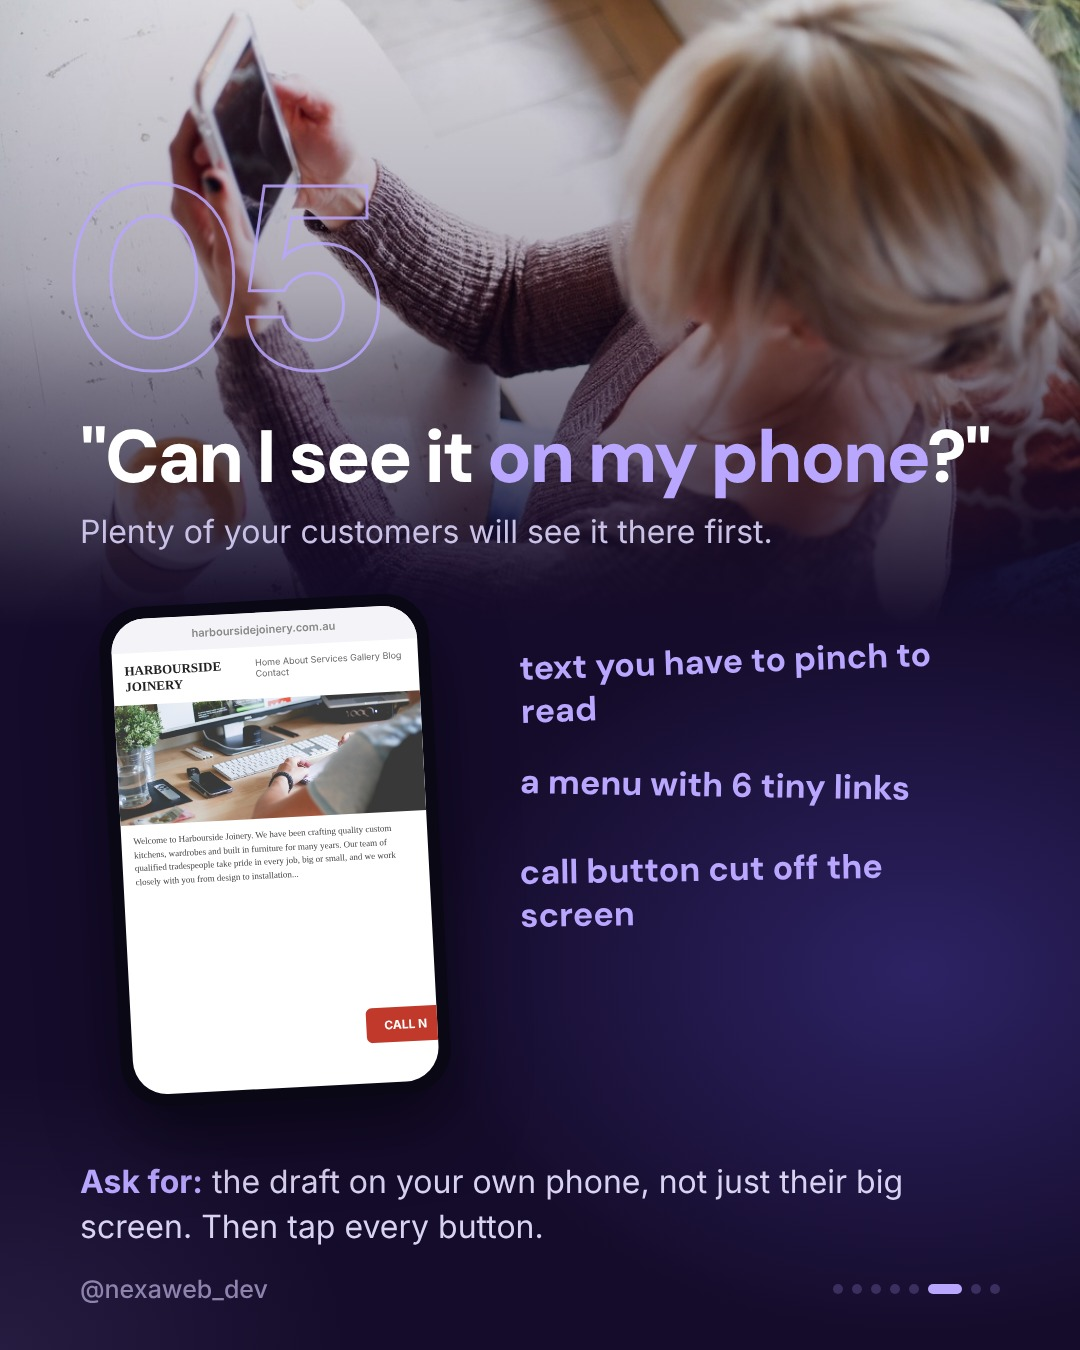
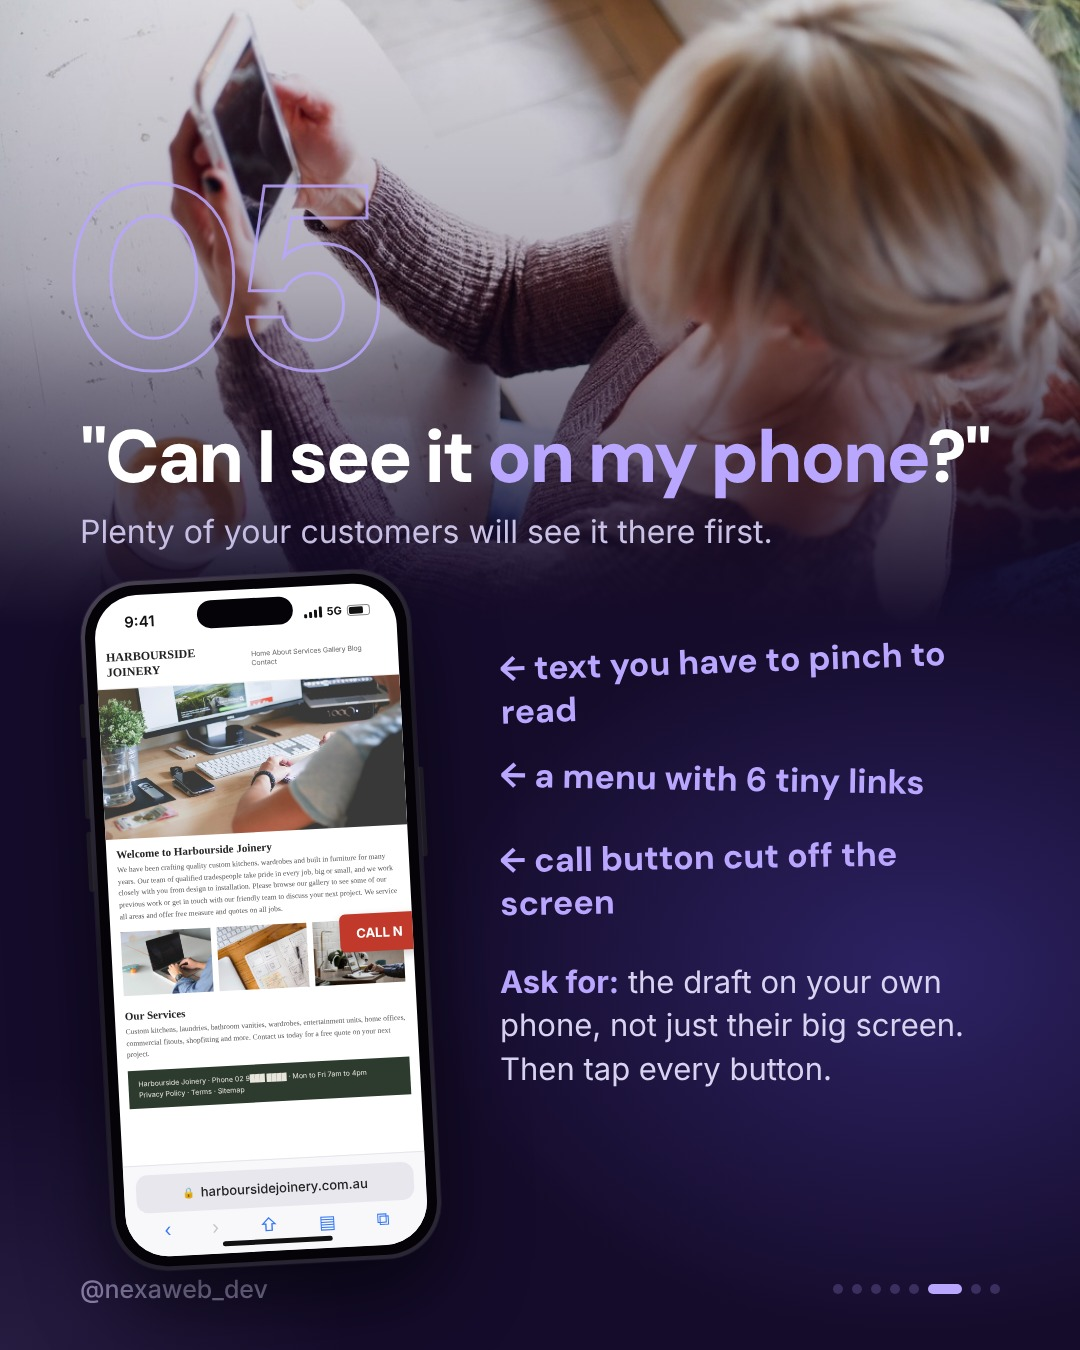
website-questions-6 v2: realistic phone on slide 6 (awaiting approval)
Claude-Session: https://claude.ai/code/session_01MAv6C5Dh1KV4sP1u8fAH6v

diff --git a/nexa/images/website-questions-6/src/slides.html b/nexa/images/website-questions-6/src/slides.html
@@ -112,19 +112,42 @@ svg.sc{position:absolute;overflow:visible;pointer-events:none;z-index:6}
  <div class="ph"><img src="img/p5.jpg" style="object-position:50% 30%"></div><div class="num">05</div>
  <div class="h">"Can I see it <em>on my phone</em>?"</div>
  <div class="sub">Plenty of your customers will see it there first.</div>
- <div style="position:absolute;left:110px;top:600px;width:330px;height:500px;border-radius:44px;background:#0b0816;padding:12px;z-index:4;transform:rotate(-3deg);box-shadow:0 30px 70px rgba(0,0,0,.5)">
-  <div style="width:100%;height:100%;border-radius:34px;background:#fff;overflow:hidden;color:#222;position:relative">
-   <div style="height:34px;background:#f4f3f7;font:600 11px Inter;color:#888;display:flex;align-items:center;justify-content:center">harboursidejoinery.com.au</div>
-   <div style="padding:10px 12px;font:700 13px Georgia;display:flex;justify-content:space-between"><span>HARBOURSIDE JOINERY</span><span style="font:9px Inter;color:#666">Home About Services Gallery Blog Contact</span></div>
-   <div style="height:120px;background:url(img/p1.jpg) center/cover"></div>
-   <div style="padding:10px 12px;font:9px/1.5 Georgia;color:#444">Welcome to Harbourside Joinery. We have been crafting quality custom kitchens, wardrobes and built in furniture for many years. Our team of qualified tradespeople take pride in every job, big or small, and we work closely with you from design to installation...</div>
-   <div style="position:absolute;right:-60px;bottom:40px;background:#c0392b;color:#fff;font:700 12px Inter;padding:10px 70px 10px 18px;border-radius:6px">CALL N</div>
-  </div></div>
- <div style="position:absolute;left:520px;top:640px;width:460px;font:700 34px/1.25 'DM Sans';color:var(--lav);z-index:5">
-  <div style="margin-bottom:40px;transform:rotate(-2deg)">text you have to pinch to read</div>
-  <div style="margin-bottom:40px;transform:rotate(1deg)">a menu with 6 tiny links</div>
-  <div style="transform:rotate(-1deg)">call button cut off the screen</div></div>
- <div class="why" style="top:1160px"><b>Ask for:</b> the draft on your own phone, not just their big screen. Then tap every button.</div>
+ <div style="position:absolute;left:96px;top:575px;width:330px;height:690px;z-index:4;transform:rotate(-3deg)">
+  <!-- side buttons -->
+  <div style="position:absolute;left:-5px;top:120px;width:6px;height:34px;border-radius:3px;background:#2a2533"></div>
+  <div style="position:absolute;left:-5px;top:175px;width:6px;height:60px;border-radius:3px;background:#2a2533"></div>
+  <div style="position:absolute;left:-5px;top:248px;width:6px;height:60px;border-radius:3px;background:#2a2533"></div>
+  <div style="position:absolute;right:-5px;top:200px;width:6px;height:90px;border-radius:3px;background:#2a2533"></div>
+  <div style="position:absolute;inset:0;border-radius:56px;background:linear-gradient(145deg,#4a4456,#1b1722 40%,#2c2736);padding:4px;box-shadow:0 34px 80px rgba(0,0,0,.6),0 0 0 1px rgba(255,255,255,.08)">
+  <div style="width:100%;height:100%;border-radius:52px;background:#050307;padding:10px">
+  <div style="width:100%;height:100%;border-radius:43px;background:#fff;overflow:hidden;color:#222;position:relative">
+   <!-- status bar + dynamic island -->
+   <div style="height:46px;display:flex;align-items:center;justify-content:space-between;padding:6px 26px 0 30px;font:600 15px Inter;color:#111"><span>9:41</span>
+    <span style="display:flex;align-items:center;gap:5px"><span style="display:flex;align-items:flex-end;gap:2px;height:11px"><i style="width:3px;height:4px;background:#111;border-radius:1px"></i><i style="width:3px;height:6px;background:#111;border-radius:1px"></i><i style="width:3px;height:8px;background:#111;border-radius:1px"></i><i style="width:3px;height:11px;background:#111;border-radius:1px"></i></span>
+    <span style="font:700 11px Inter">5G</span>
+    <span style="width:23px;height:11px;border:1.5px solid #888;border-radius:3.5px;padding:1px;position:relative"><span style="display:block;width:75%;height:100%;background:#111;border-radius:1.5px"></span></span></span></div>
+   <div style="position:absolute;left:50%;top:9px;width:96px;height:28px;margin-left:-48px;border-radius:14px;background:#050307"></div>
+   <!-- squished desktop site -->
+   <div style="padding:8px 10px;font:700 12px Georgia;display:flex;justify-content:space-between;align-items:center;border-bottom:1px solid #eee"><span>HARBOURSIDE JOINERY</span><span style="font:7px Inter;color:#666;letter-spacing:-.1px">Home About Services Gallery Blog Contact</span></div>
+   <div style="height:150px;background:url(img/p1.jpg) center/cover"></div>
+   <div style="padding:9px 10px 0;font:700 11px Georgia">Welcome to Harbourside Joinery</div>
+   <div style="padding:4px 10px;font:7.5px/1.55 Georgia;color:#555">We have been crafting quality custom kitchens, wardrobes and built in furniture for many years. Our team of qualified tradespeople take pride in every job, big or small, and we work closely with you from design to installation. Please browse our gallery to see some of our previous work or get in touch with our friendly team to discuss your next project. We service all areas and offer free measure and quotes on all jobs.</div>
+   <div style="display:flex;gap:6px;padding:6px 10px"><div style="flex:1;height:64px;background:url(img/p4.jpg) center/cover"></div><div style="flex:1;height:64px;background:url(img/cover.jpg) center/cover"></div><div style="flex:1;height:64px;background:url(img/p6.jpg) center/cover"></div></div>
+   <div style="padding:8px 10px 0;font:700 11px Georgia">Our Services</div>
+   <div style="padding:4px 10px;font:7.5px/1.55 Georgia;color:#555">Custom kitchens, laundries, bathroom vanities, wardrobes, entertainment units, home offices, commercial fitouts, shopfitting and more. Contact us today for a free quote on your next project.</div>
+   <div style="margin:6px 10px 0;background:#2d3a2e;color:#e8e6dc;font:7px/1.6 Inter;padding:8px 10px">Harbourside Joinery &#183; Phone 02 9&#9608;&#9608;&#9608; &#9608;&#9608;&#9608;&#9608; &#183; Mon to Fri 7am to 4pm<br>Privacy Policy &#183; Terms &#183; Sitemap</div>
+   <div style="position:absolute;right:-70px;top:330px;background:#c0392b;color:#fff;font:700 13px Inter;padding:11px 80px 11px 16px;border-radius:6px;box-shadow:0 4px 10px rgba(0,0,0,.2)">CALL N</div>
+   <!-- Safari bottom bar -->
+   <div style="position:absolute;left:0;right:0;bottom:0;height:92px;background:rgba(248,247,250,.97);border-top:1px solid #e6e4ea">
+    <div style="margin:9px 12px 0;height:38px;border-radius:12px;background:#e9e7ee;display:flex;align-items:center;justify-content:center;gap:6px;font:500 13px Inter;color:#222"><span style="font-size:10px">&#128274;</span>harboursidejoinery.com.au</div>
+    <div style="display:flex;justify-content:space-around;padding:7px 18px 0;font:400 18px Inter;color:#3478f6"><span>&#8249;</span><span style="color:#c7c5cc">&#8250;</span><span>&#8679;</span><span>&#9636;</span><span>&#10697;</span></div>
+    <div style="position:absolute;left:50%;bottom:7px;width:110px;margin-left:-55px;height:5px;border-radius:3px;background:#111"></div></div>
+  </div></div></div></div>
+ <div style="position:absolute;left:500px;top:640px;width:500px;font:700 34px/1.25 'DM Sans';color:var(--lav);z-index:5">
+  <div style="margin-bottom:34px;transform:rotate(-2deg)">&#8592; text you have to pinch to read</div>
+  <div style="margin-bottom:34px;transform:rotate(1deg)">&#8592; a menu with 6 tiny links</div>
+  <div style="transform:rotate(-1deg)">&#8592; call button cut off the screen</div></div>
+ <div class="why" style="left:500px;right:70px;top:960px;font-size:31px"><b>Ask for:</b> the draft on your own phone, not just their big screen. Then tap every button.</div>
  <div class="ft"><span>@nexaweb_dev</span><span class="dots" data-on="6"></span></div>
 </div>
 
